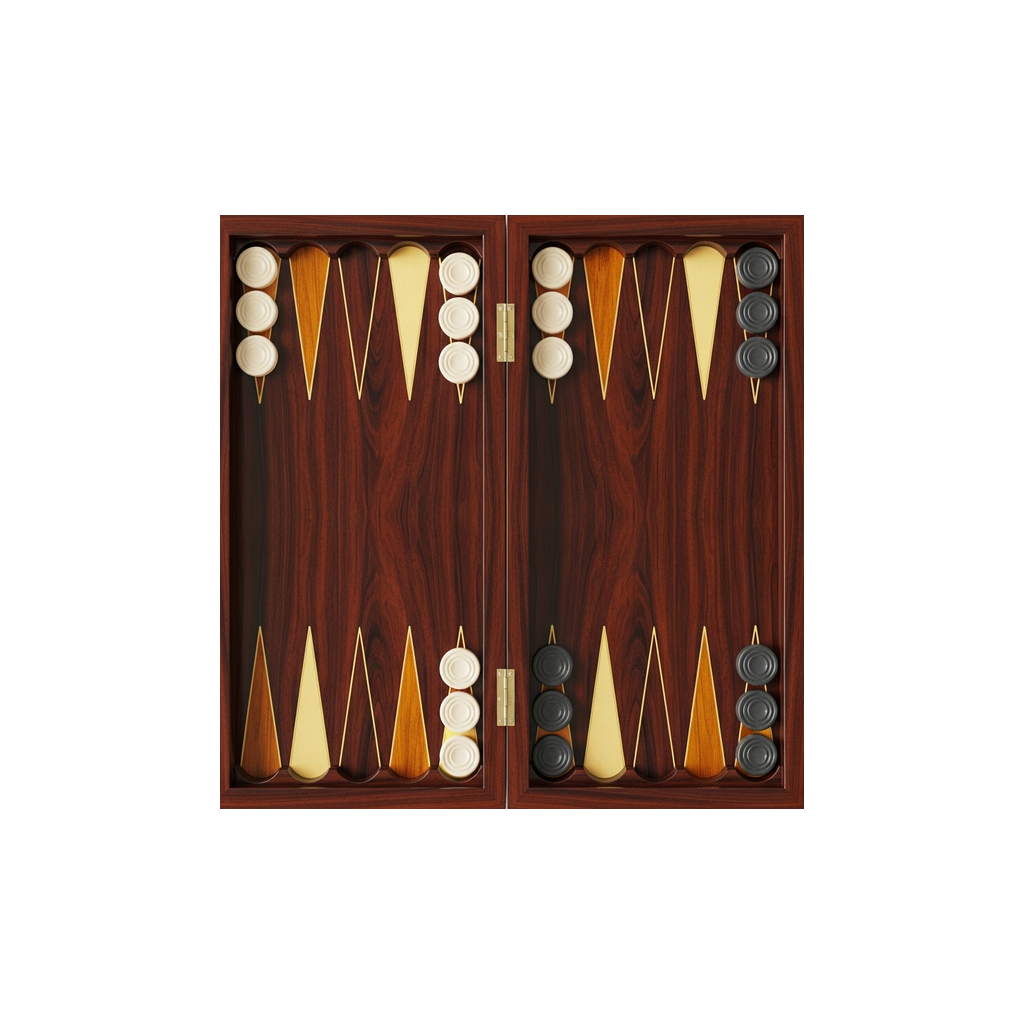
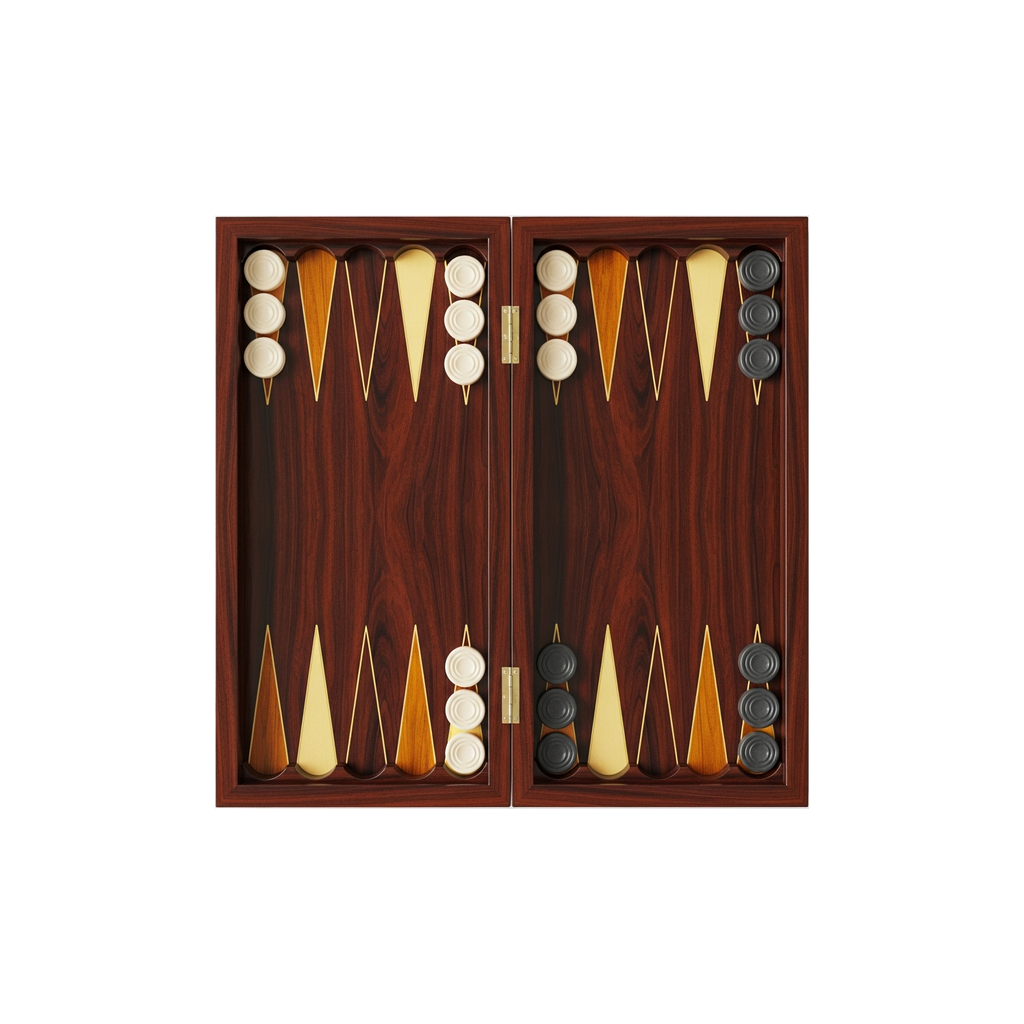
fix: strip drop shadow from brand crop, not just white padding
icon-source has white padding plus a neutral gray shadow on the right.
Treat both as backdrop so display-logo is board-only with symmetric edges.

Changed region(s): [[0.1875, 0.1875, 0.8125, 0.8125]]

diff --git a/scripts/generate-brand-assets.ts b/scripts/generate-brand-assets.ts
@@ -36,14 +36,19 @@ function hexToRgb(hex: string) {
   };
 }
 
-function isMarginPixel(r: number, g: number, b: number) {
+/** White studio padding and the soft drop shadow cast on the right in icon-source. */
+function isBackdropOrShadow(r: number, g: number, b: number) {
   const lum = 0.299 * r + 0.587 * g + 0.114 * b;
   const sat = Math.max(r, g, b) - Math.min(r, g, b);
-  // White studio backdrop + light gray compression artifacts on the right edge
-  return lum > 200 && sat < 35;
+  if (lum > 235 && sat < 25)
+    return true;
+  // Neutral gray shadow/highlight (no wood grain color)
+  if (lum > 100 && sat < 25)
+    return true;
+  return false;
 }
 
-/** Square crop centered on the board, excluding white/gray studio margins. */
+/** Square crop centered on the board frame, excluding white padding and drop shadow. */
 async function centeredBoardCrop(source: string) {
   const { data, info } = await sharp(source)
     .ensureAlpha()
@@ -59,7 +64,7 @@ async function centeredBoardCrop(source: string) {
   for (let y = 0; y < height; y++) {
     for (let x = 0; x < width; x++) {
       const i = (y * width + x) * channels;
-      if (!isMarginPixel(data[i], data[i + 1], data[i + 2])) {
+      if (!isBackdropOrShadow(data[i], data[i + 1], data[i + 2])) {
         minX = Math.min(minX, x);
         maxX = Math.max(maxX, x);
         minY = Math.min(minY, y);
@@ -83,19 +88,7 @@ async function centeredBoardCrop(source: string) {
 }
 
 async function trimmedBoard(source: string) {
-  const cropped = await centeredBoardCrop(source);
-  const meta = await sharp(cropped).metadata();
-  const side = meta.width ?? 0;
-  // Source photo has uneven studio lighting — bright neutral strip on the right frame edge
-  const insetY = Math.round(side * 0.035);
-  const insetLeft = Math.round(side * 0.02);
-  const insetRight = Math.round(side * 0.065);
-  return sharp(cropped).extract({
-    left: insetLeft,
-    top: insetY,
-    width: side - insetLeft - insetRight,
-    height: side - insetY * 2,
-  });
+  return sharp(await centeredBoardCrop(source));
 }
 
 async function main() {

diff --git a/assets/brand/README.md b/assets/brand/README.md
@@ -36,6 +36,8 @@ Obytes ships four PNGs you replace by hand. Expo actually requires **different**
 
 **Minimum workflow:** edit `icon-source.png` → `pnpm brand:generate` → rebuild dev client for store icon/splash only.
 
+`icon-source.png` may include white studio padding and a drop shadow (often on the right). `brand:generate` crops to the board frame only — shadow and padding are stripped from `display-logo.png` and the native icon assets.
+
 ## Testing splash (easy to get wrong)
 
 | Build type | What you see on launch |
